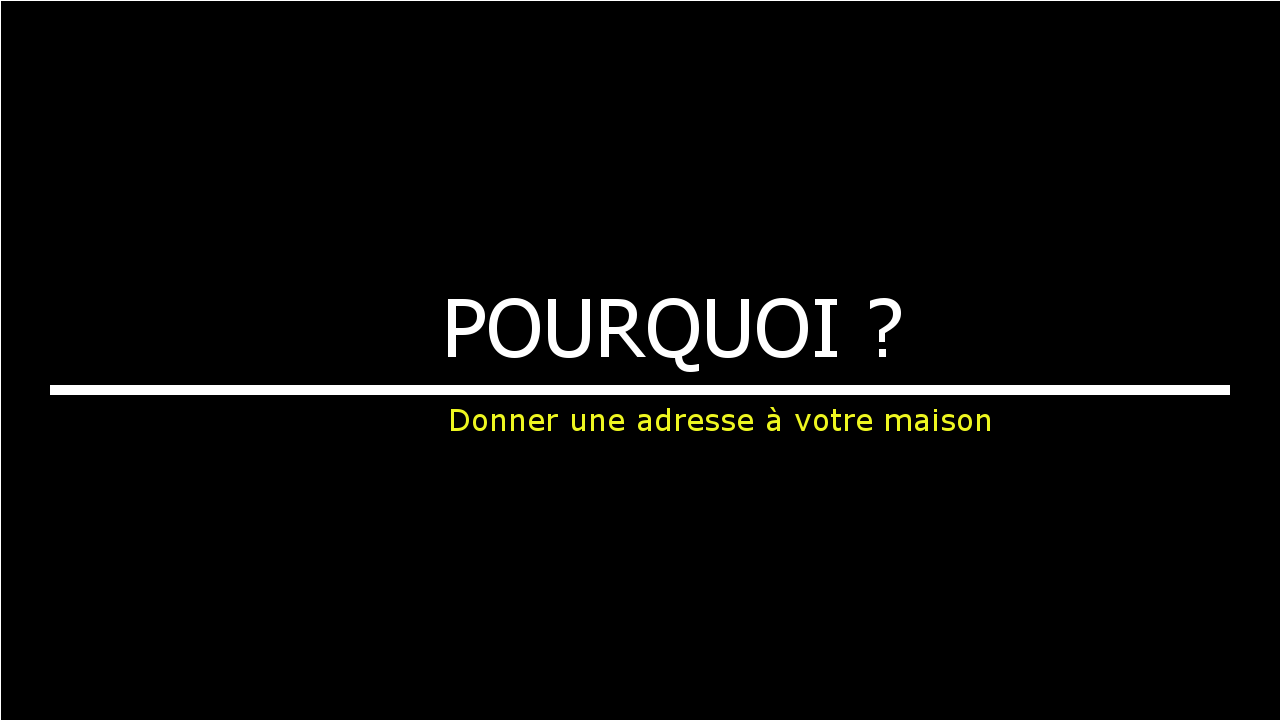
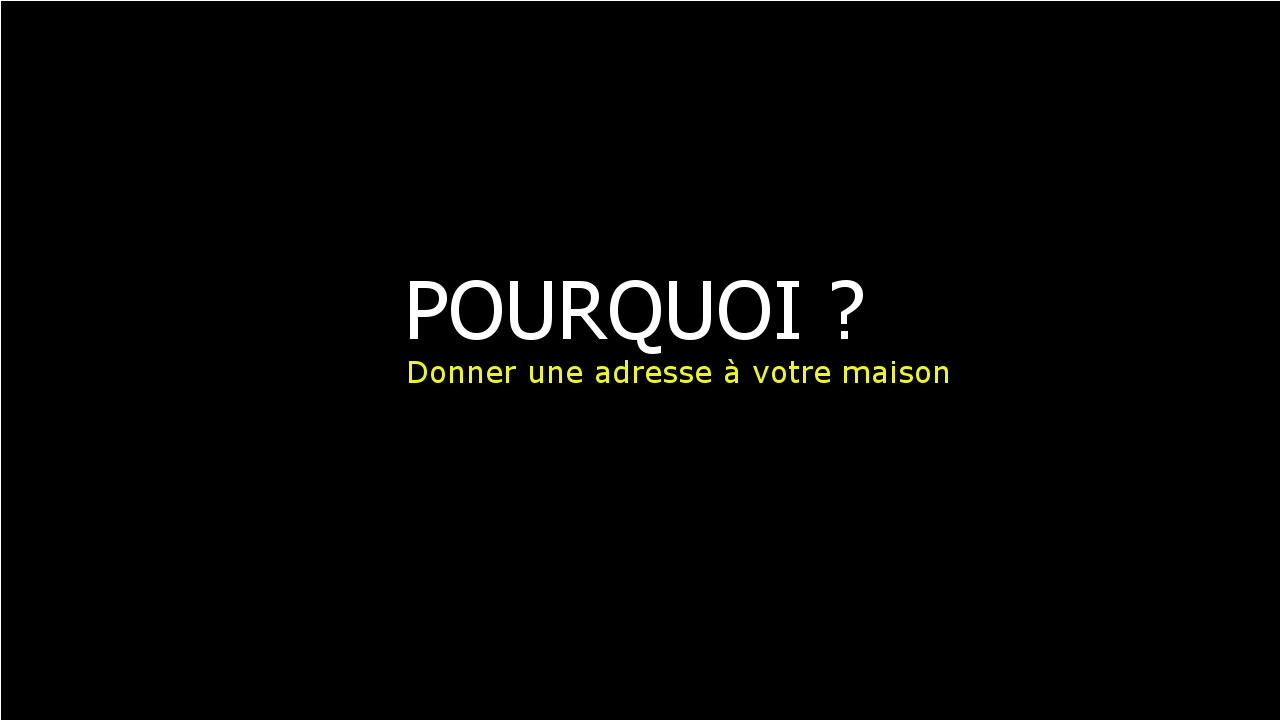
poster remove

Changed region(s): [[0.0312, 0.3667, 0.9688, 0.6111]]

diff --git a/app/assets/stylesheets/application.scss b/app/assets/stylesheets/application.scss
@@ -289,7 +289,8 @@ html{
 }
 body{
   background-color:#f1f2f3;
-  height:100%
+  height:100%;
+  min-width:320px
 }
 #map{
   height:550px
@@ -2251,7 +2252,7 @@ span{
 
 /*  Landing page */
 .ld_bg{
-  height:500px;
+  min-height:500px;
   width:100%;
   background-image: url("/assets/plan.png");
 }
@@ -2262,20 +2263,23 @@ span{
   padding-bottom:30px;
   color:#fff;
   font-size:38px ;
-  line-height: 48px;
+  line-height: 38px;
   font-weight:900;
   font-family:'Raleway' , 'sans-serif';
   .ld_slogan_small{
     font-size:18px;
     text-transform: none;
     font-weight:500;
-    margin-bottom:-23px;
+    margin-bottom:-10px;
   }
 }
 .ld_content{
   background-color:rgba(40,88,188,0.8) ;//#186193;
-  height:500px;
-  width:100%
+  min-height:500px;
+  width:100%;
+  .col-md-6{
+    margin-top:20px;
+  }
 }
 .ld_lancement{
   text-align:center;
@@ -2300,7 +2304,9 @@ span{
 .ld_form{
   width: 350px;
 margin: 20px auto;
-
+ .form-group{
+   display:inline-block
+ }
 }
 .ld_card{
 width: 350px;

diff --git a/app/assets/javascripts/landing.js b/app/assets/javascripts/landing.js
@@ -101,6 +101,7 @@ angular.module('landing',
                  Restangular.all('/locations/landing.json?secret=78hor0924wi84').post({
                  invite:$scope.invite
                  }).then(function(value){
+                  
                     $rootScope.$on("ealo-progress-finish",function(){
                       $scope.info_souscription_modal.close() ;
                       $scope.register_response(value)
@@ -205,6 +206,7 @@ angular.module('landing',
          });
      };
      $scope.showRestCurrent = function(amount){
+
          $timeout(function(){
              if(amount >= $scope.max){
                  //$scope.restCurrent = $scope.max;
